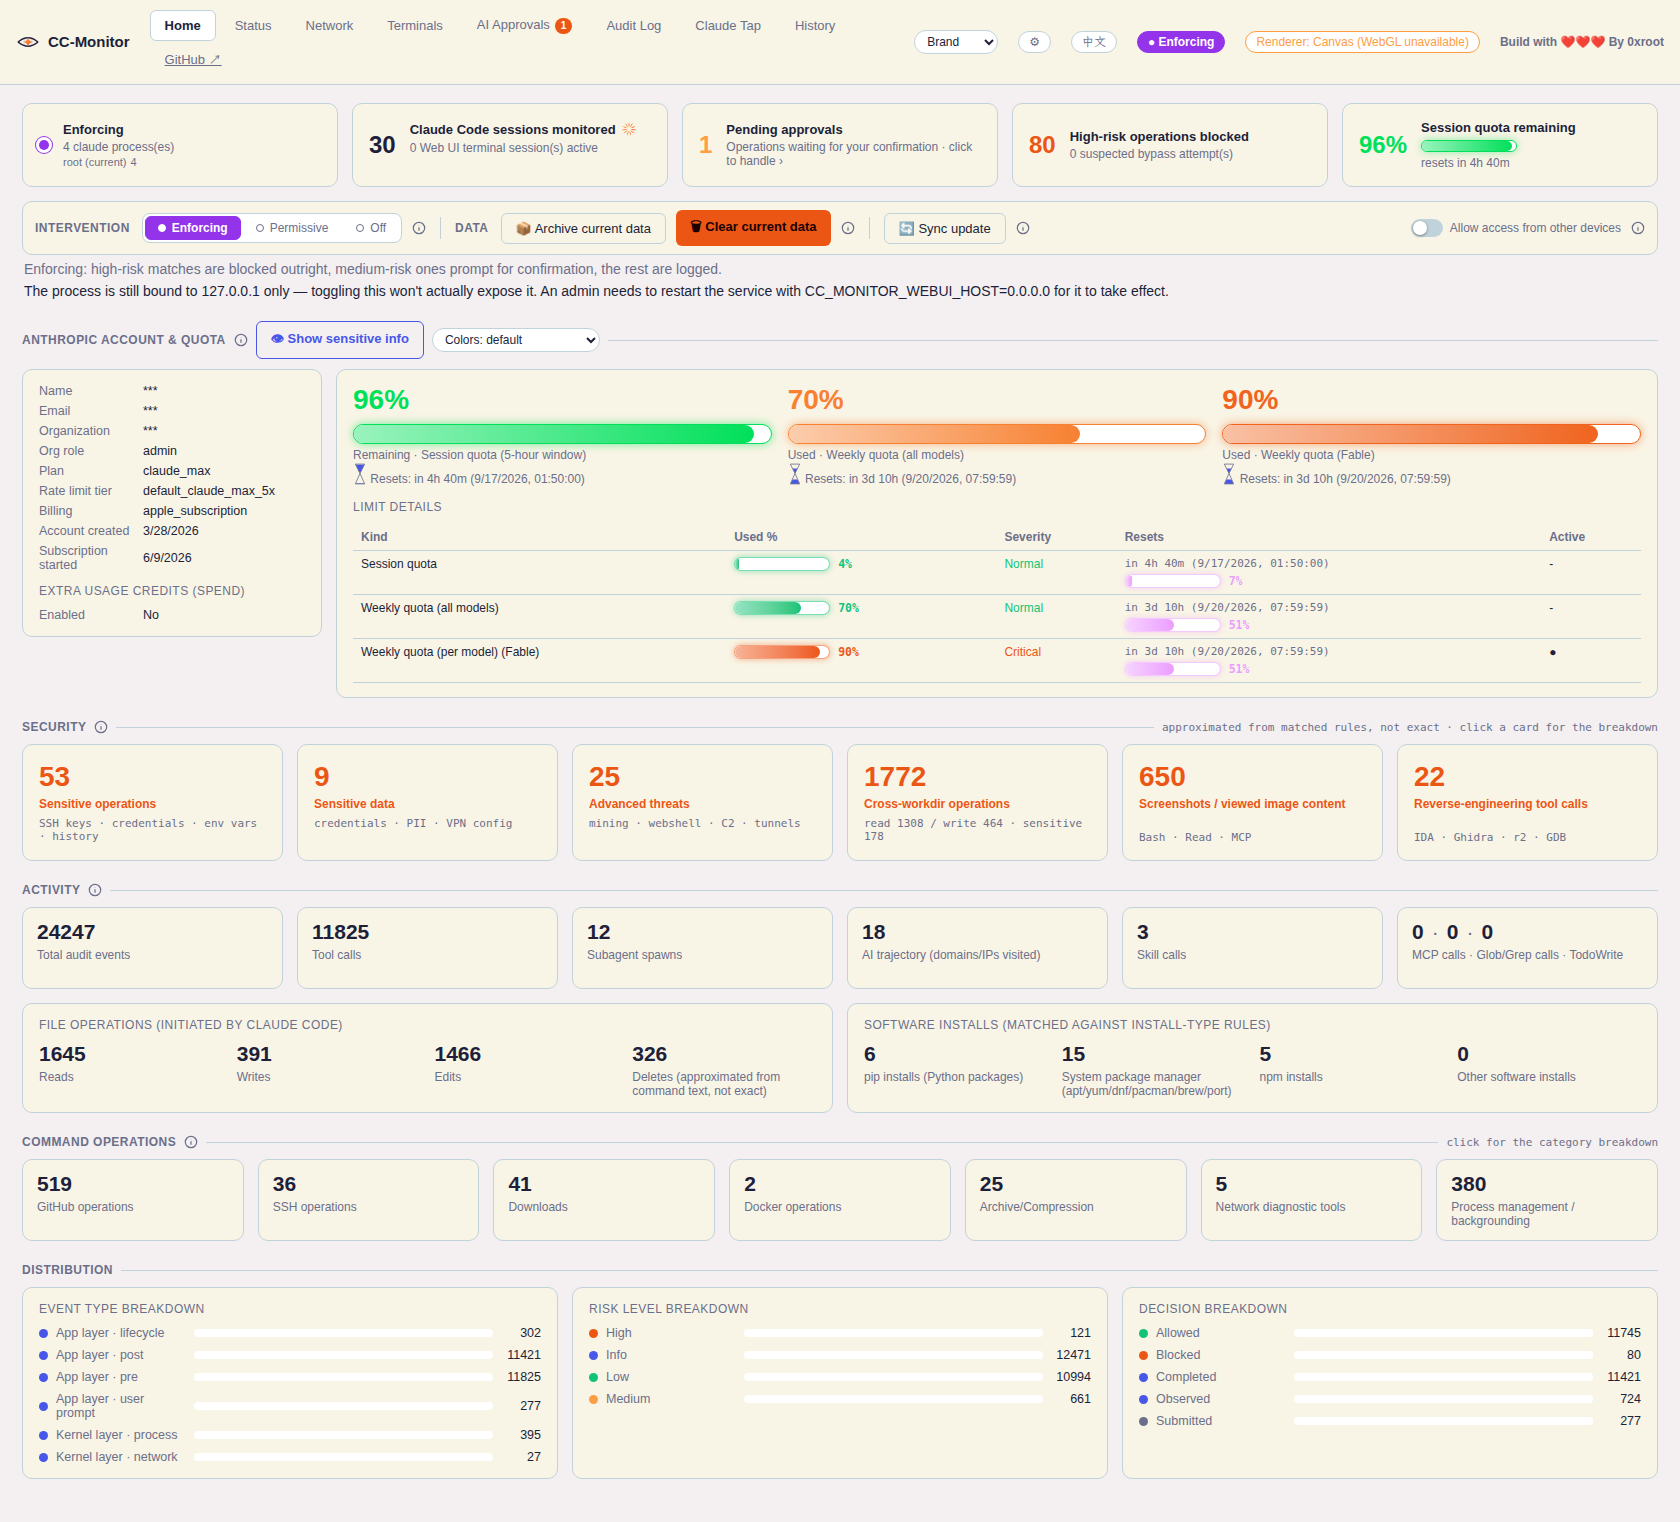
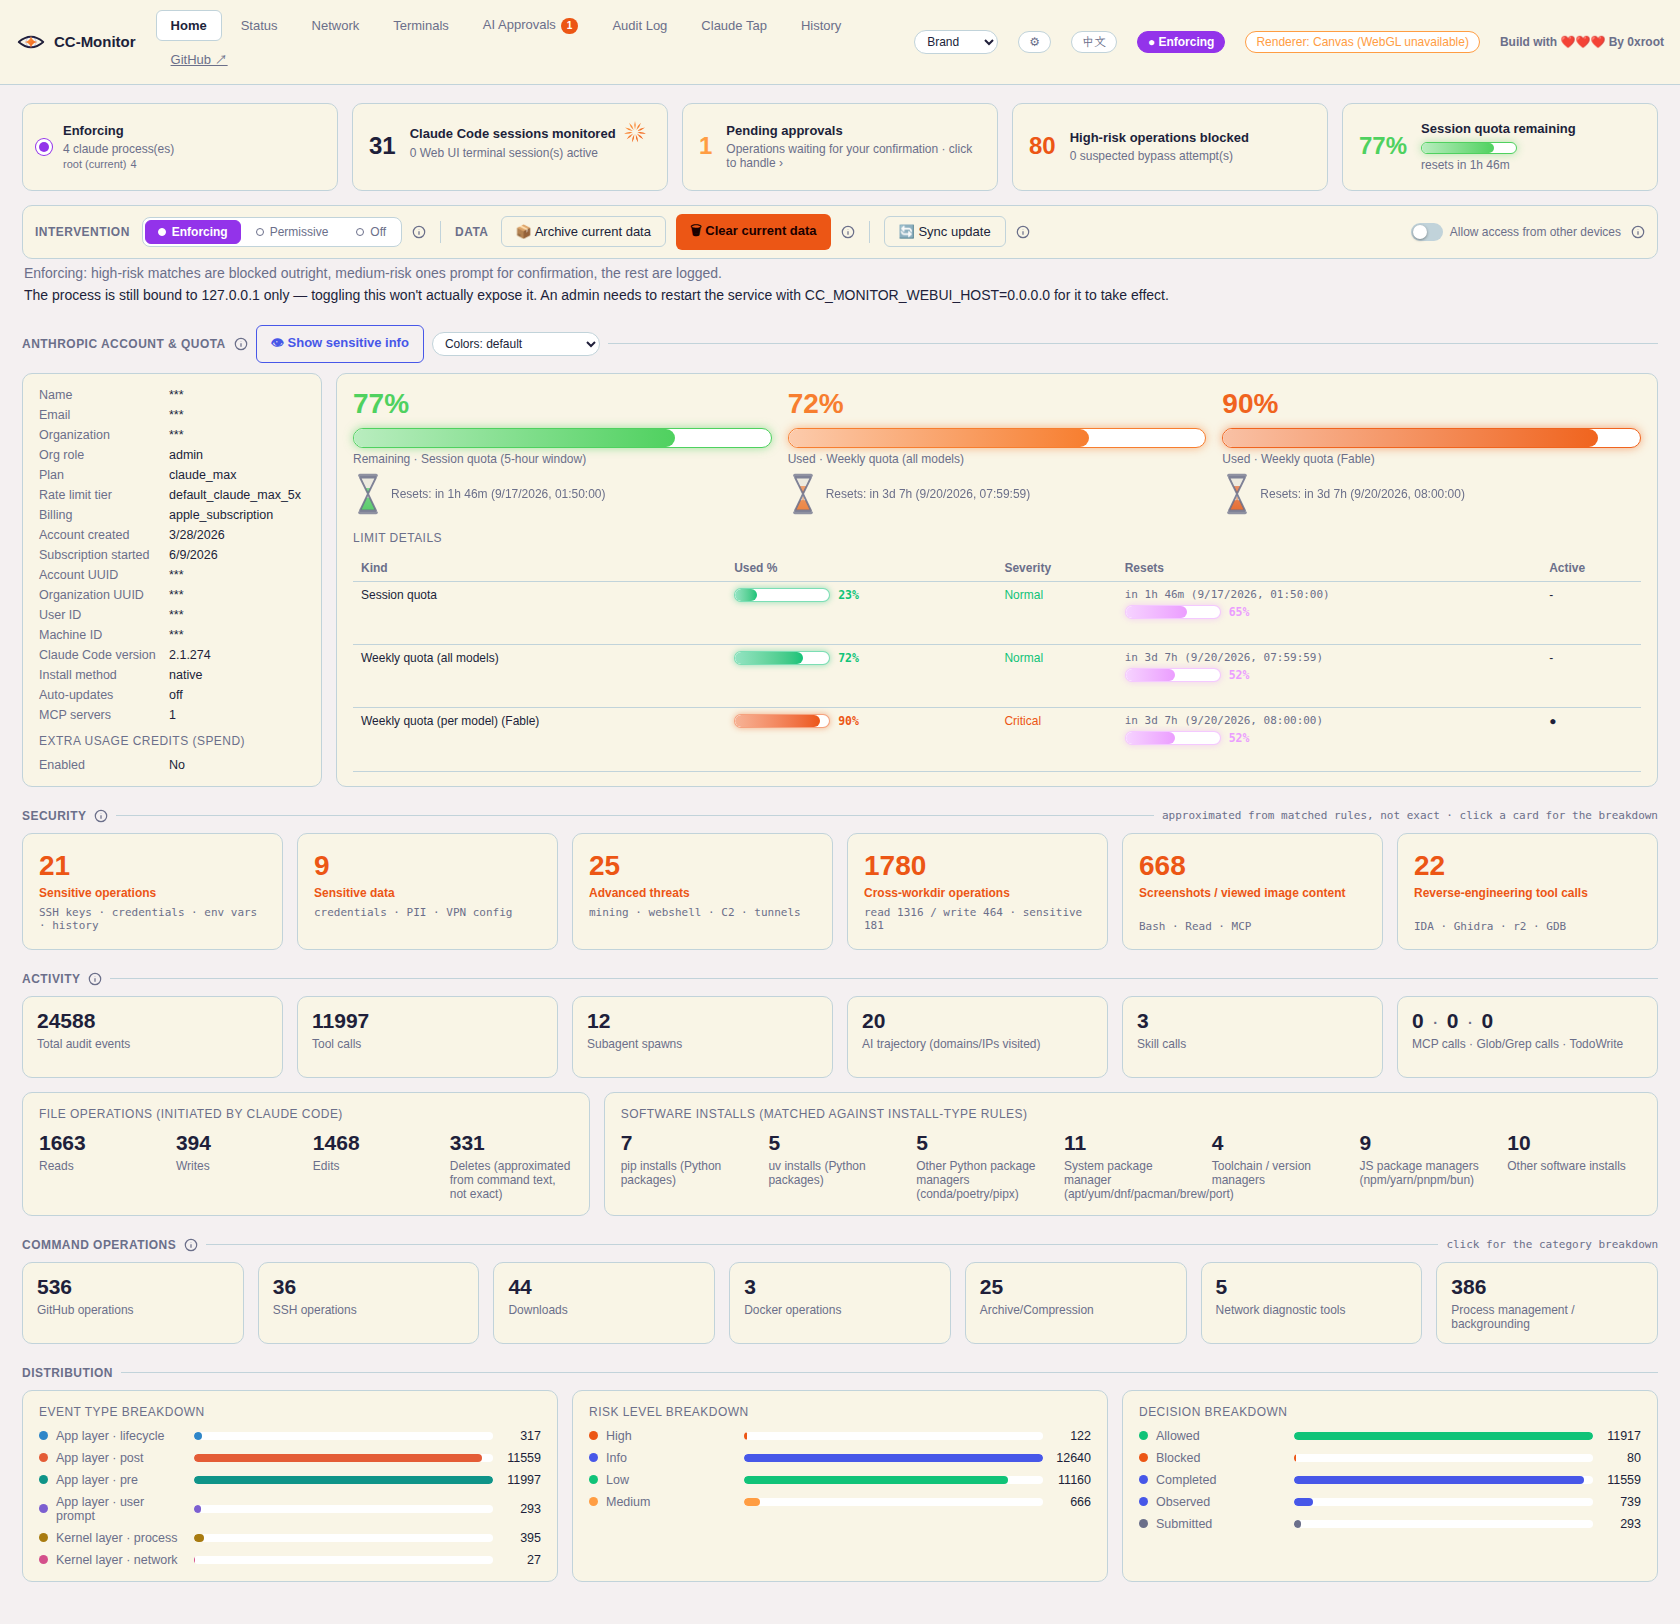
docs: 更新 README 首页截图，CHANGELOG 记录本轮改动
截图重拍：账号面板 17 行（七项打码）、分布数据条有颜色、日志类型六色、两处卡片等高
无空洞、沙漏新样式、logo 放大、软件安装统计 7 张卡。中英各一张，官网 HTML/assets/ 下
的同名文件内容一致（该目录不入库）。

diff --git a/CHANGELOG.en.md b/CHANGELOG.en.md
@@ -8,6 +8,41 @@ This file records what shipped in each version of CC-Monitor. Loosely follows
 ## [Unreleased]
 
 ### Changed
+- **Account panel gains identifiers and local environment info**: from 9 rows to 17. Adds
+  account UUID / organization UUID / user ID / machine ID (truncated to "first 8…last 4" with
+  the full value in a tooltip; shown by default and hidden along with name/email/org by "hide
+  sensitive info", which now covers 7 fields instead of 3), plus Claude Code version / install
+  method / auto-updates / configured MCP count (always in the clear — they aren't identity, and
+  they're exactly what you check when hooks misbehave). The version comes from
+  `claude --version`, cached in-process, with two fallbacks that are labelled "approx" rather
+  than passed off as exact. Masking covers the tooltip too — otherwise the text is asterisks but
+  a hover reveals the original.
+- **Six distinct colors for the log-type breakdown**: all six rows used to share one
+  `var(--accent)`, so color carried no information. The hues come from a macaron family but the
+  depth is computed, not picked — the pure pastels measured outside the lightness band, below
+  the chroma floor, and at only 1.3–2.2:1 contrast. Separate light and dark sets, both passing
+  all five checks, with worst adjacent ΔE of 11.4 and 12.5 against a target of 8. Render order
+  is pinned via `SOURCE_ORDER` so the validated adjacency is an invariant, and color binds to
+  the source key rather than to rank.
+- **Hourglass redrawn**: 14×24 up to 30×46, with end caps, gradient sand, a peaked sand pile and
+  the falling stream (drawn only while it's actually draining, and honoring
+  `prefers-reduced-motion`), colored to match its card instead of always using the accent.
+  The Claude Code starburst goes 16→24px and the brand logo 24→30px.
+
+### Fixed
+- **Distribution bars never had any color**: `.fill` is a span, so `display:inline` by default,
+  and width/height simply don't apply to a non-replaced inline element — its measured size was
+  0×0, so the background color had no box to paint. The dot beside it is also a span but works,
+  because it's a direct child of a flex container and gets blockified.
+- **Two hollow card layouts**, resolved in opposite directions: in the file-ops row the two
+  boxes are equal width with similar content, and growing the install stats to 7 items wrapped
+  them onto two rows, leaving ~124px empty under the single-row box — fixed by not forcing equal
+  heights, plus a content-proportional split on wide viewports. The account and quota columns
+  differ a lot in width and length, so content-sized heights left a visible step — fixed by
+  matching heights and having each column absorb its own slack (the quota column's last block is
+  a table, so `height:100%` lets its rows expand proportionally).
+- **Wrapped labels in the account column**: the 96px label column couldn't fit "Claude Code
+  version" (117px measured) or "Subscription started"; widened to 122px, only there.
 - **Software-install detection filled in by ecosystem; rules 74 → 86**: install rules used to
   enumerate specific executables, recognizing only pip / npm / the apt family / gem / cargo / go /
   composer. Running 96 real install commands through the rule engine put coverage at 22%, with

diff --git a/CHANGELOG.md b/CHANGELOG.md
@@ -8,6 +8,32 @@
 ## [未发布]
 
 ### 变更
+- **账号面板新增标识符与本机环境信息**：从 9 行增到 17 行。新增账号 UUID / 组织 UUID /
+  用户 ID / 机器 ID 四个标识符（截断成"头 8…尾 4"，完整值在悬停提示里，默认显示、跟着
+  "隐藏敏感信息"一起打码，打码范围从 3 项扩到 7 项），以及 Claude Code 版本 / 安装方式 /
+  自动更新 / 已配置 MCP 数四项本机环境信息（一律明文，它们不是身份信息，而且正是排查
+  hook 失灵时要看的东西）。版本取 `claude --version` 的输出并进程内缓存，拿不到时两级
+  兜底并标注"近似"，不假装是准确值。打码时连悬停提示一起遮——否则正文是星号但鼠标一放
+  就看到原值。
+- **日志类型分布六项各一色**：原来六行全是同一个 `var(--accent)`，颜色不承载任何信息。
+  取马卡龙的色相家族但深度是算出来的——纯浅色调实测亮度超界、彩度发灰、对比度只有
+  1.3~2.2:1，过不了可读性检查。浅色/深色各一套取值，五项检查全过，相邻对最差 ΔE 分别是
+  11.4 和 12.5（目标线 8）。渲染顺序固定成 `SOURCE_ORDER`，让验证过的相邻关系成为不变量；
+  颜色按 source 键绑定而非按名次。
+- **沙漏重做**：14×24 放大到 30×46，加上下托板、沙子渐变、中间高的沙堆、正在漏的那道
+  细沙（只在真的还在漏时才画，并跟随 `prefers-reduced-motion`），颜色跟随所在卡片而不再
+  固定用强调色。Claude Code 星芒 16→24px，品牌 logo 24→30px。
+
+### 修复
+- **分布数据条一直没有颜色**：`.fill` 是 span，默认 `display:inline`，而行内非替换元素的
+  width/height 根本不生效，实际宽高一直是 0，背景色设了也画不出来。旁边的圆点同样是 span
+  却正常，是因为它是 flex 容器的直接子项被 blockify 了。
+- **两处卡片布局空洞**，取舍方向相反：文件操作那一行两 box 等宽、内容量相近，安装统计
+  加到 7 项后换行把行高拉高，只有一行的那个底部空出约 124px，改成不强行等高 + 宽屏按
+  内容量分宽；账号列和额度列宽度差很多，各按内容收会断成台阶，改成等高并让两列各自吃掉
+  余量（额度列最后一块是 table，靠 `height:100%` 让行按比例撑开来吸收）。
+- **账号列标签折行**：标签列 96px 装不下"Claude Code 版本"（实测需 117px）和英文的
+  "Subscription started"，放宽到 122px，只改这一处。
 - **软件安装识别按生态补齐，规则数 74 → 86**：原来的安装类规则是按具体可执行文件名
   枚举的，只认 pip / npm / apt 系 / gem / cargo / go / composer。拿 96 条真实安装命令跑了一遍
   规则引擎，覆盖率只有 22%——工具链和容器插件两类是 0%。补法不是继续堆枚举，而是按生态
